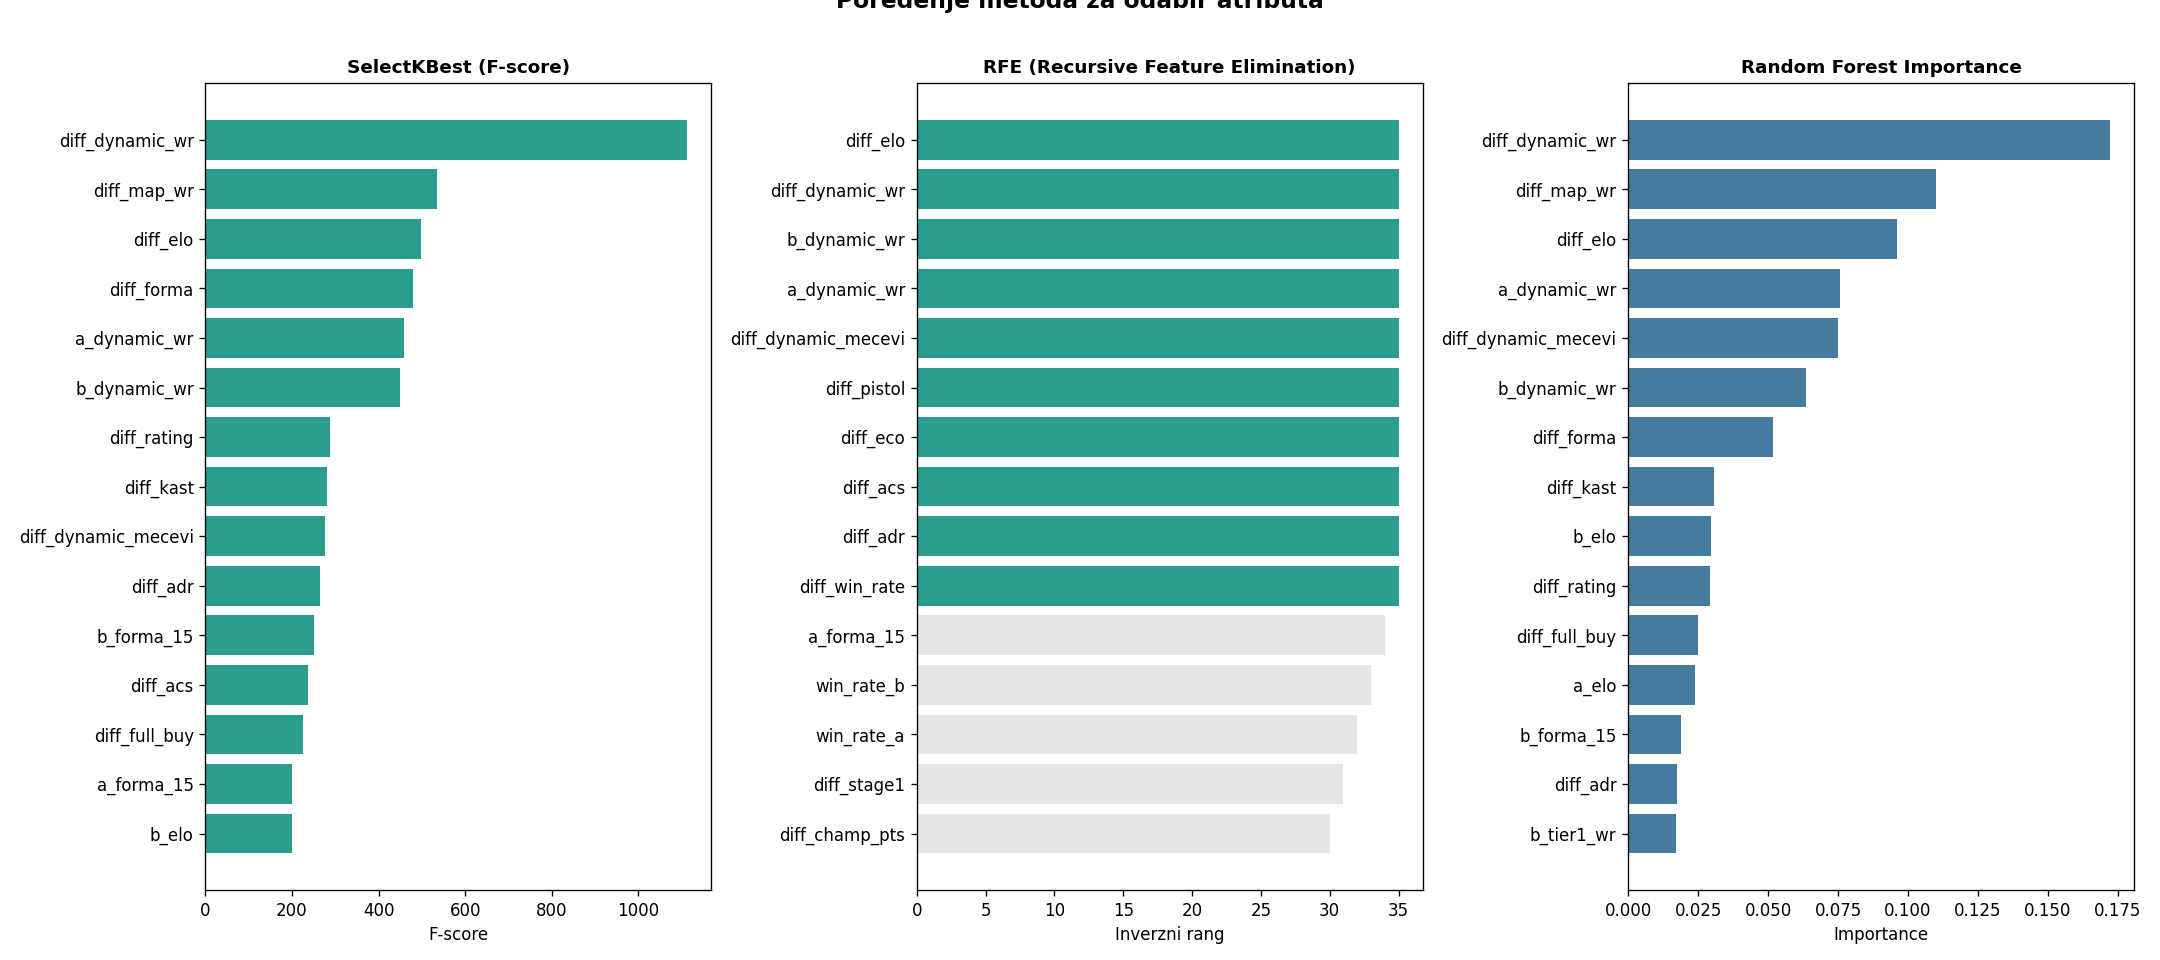
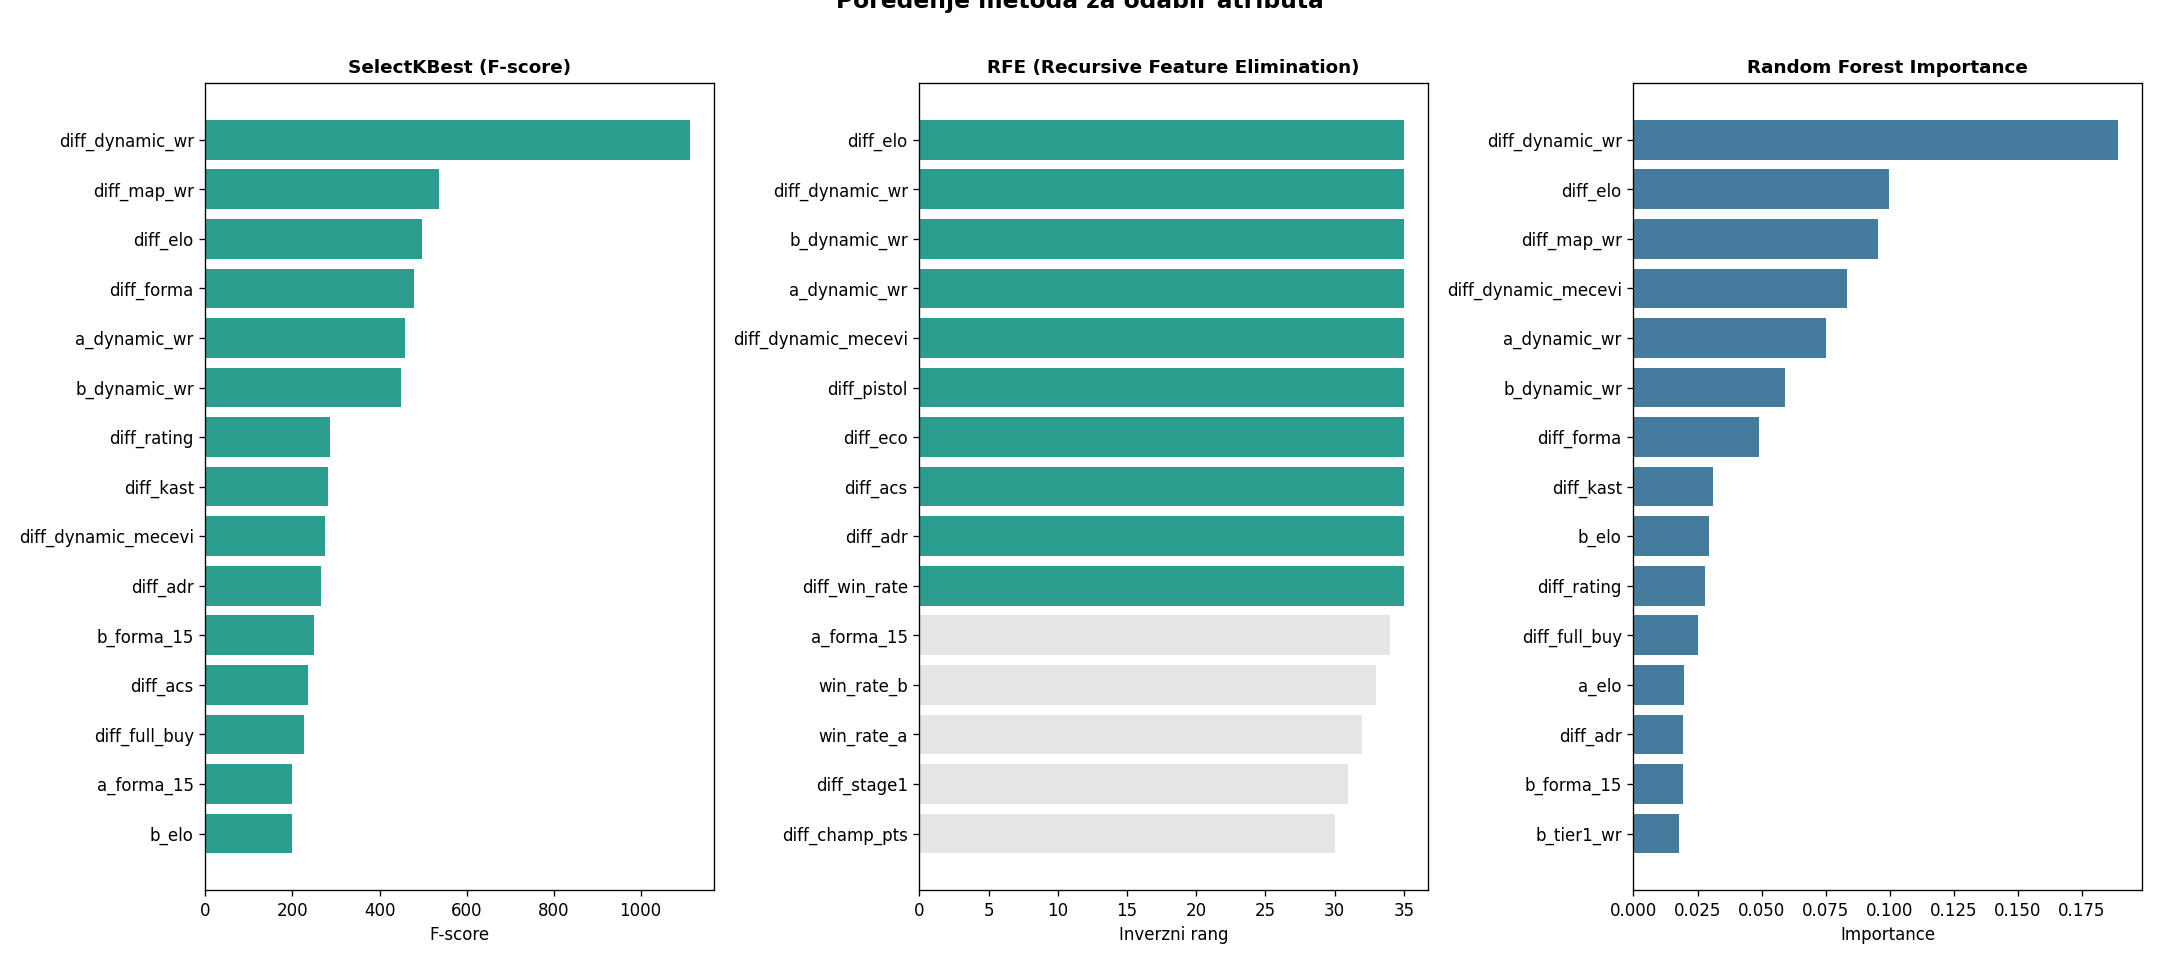
Poboljsaj validaciju i regularizaciju modela
- CV i GridSearchCV koriste TimeSeriesSplit (walk-forward) umjesto obicnog
  k-fold-a, jer su mecevi vremenski uredjeni - sprecava blago optimisticnu
  procjenu unutar trening perioda (2021-2024)
- GridSearchCV scoring promijenjen sa accuracy na neg_brier_score - bira
  hiperparametre po kalibraciji vjerovatnoca, relevantnije jer se
  predict_proba koristi direktno u Monte Carlo simulaciji
- Ispravljen bug: LR i SVM GridSearchCV nisu primali sample_weight (trebalo
  je clf__sample_weight za Pipeline), pa su tuned verzije ignorisale
  recency weighting iako ga je default verzija postovala
- RF grid prosiren sa min_samples_leaf; GB dobija rano zaustavljanje
  (n_iter_no_change) i siri n_estimators grid da nizak learning_rate
  ne bude vjestacki ogranicen
- Ispravljen prateci bug uveden gornjim izmjenama: GridSearchCV.score()
  koristi isti scoring kao u konstruktoru (sad neg_brier_score), ne
  accuracy automatski - dodata _test_accuracy() koja to racuna eksplicitno

diff --git a/kod/models.py b/kod/models.py
@@ -6,6 +6,17 @@ score - korisne dopunske metrike za binarnu klasifikaciju sa vjerovatnocama
 vjerovatnoca - bitno jer se predict_proba koristi za Monte Carlo simulaciju).
 Napomena: R^2 (koeficijent determinacije) je metrika za regresiju i ovdje se
 namjerno ne koristi - cilj ovog modela je klasifikacija (pobjednik meca).
+
+Validacija (CV i GridSearchCV) koristi TimeSeriesSplit umjesto obicnog
+k-fold-a: mecevi su vremenski uredjeni (trening je 2021-2024), pa obican
+k-fold moze trenirati na kasnijim a validirati na ranijim mecevima unutar tog
+perioda, sto je blago optimisticno u odnosu na stvarnu upotrebu (predikcija
+buducnosti iz proslosti). TimeSeriesSplit pravi "expanding window" foldove
+koji uvijek validiraju na mecevima posljije onih na kojima se trenira.
+
+GridSearchCV scoring je "neg_brier_score" (ne accuracy) - hiperparametri se
+biraju po kvalitetu KALIBRACIJE vjerovatnoca, ne po tacnosti klasifikacije,
+jer se predict_proba direktno koristi u Monte Carlo simulaciji (kod[7]).
 """
 
 import os
@@ -20,13 +31,25 @@ from sklearn.ensemble import RandomForestClassifier, GradientBoostingClassifier,
 from sklearn.svm import SVC
 from sklearn.preprocessing import StandardScaler
 from sklearn.pipeline import Pipeline
-from sklearn.model_selection import cross_val_score, GridSearchCV
+from sklearn.model_selection import cross_val_score, GridSearchCV, TimeSeriesSplit
 from sklearn.metrics import (
     accuracy_score, classification_report, confusion_matrix,
     roc_auc_score, brier_score_loss,
 )
 
 from config import PATH_REZULTATI, RANDOM_STATE
+
+CV_SPLITS = 5
+
+
+def _test_accuracy(grid, X_test, y_test):
+    """Accuracy nezavisna od GridSearchCV scoring-a.
+
+    GridSearchCV.score() koristi isti scorer koji je dat u konstruktoru
+    (kod nas "neg_brier_score") - NE accuracy automatski. Ova funkcija
+    racuna accuracy eksplicitno preko predict(), bez obzira na scoring.
+    """
+    return accuracy_score(y_test, grid.predict(X_test))
 
 
 def build_models():
@@ -119,20 +142,27 @@ def train_models(X_train, y_train, X_test, y_test, sample_weights):
 
 
 def cross_validate_models(modeli, X_train, y_train):
-    """K-fold CV (k=5) SAMO na trening setu - izbjegava data leakage iz test seta."""
+    """Vremenski svjesna CV (TimeSeriesSplit, 5 prozora) SAMO na trening setu.
+
+    Izbjegava i data leakage iz test seta (CV nikad ne vidi 2025/2026) i
+    leakage UNUTAR CV-a (svaki fold validira na mecevima poslije onih na
+    kojima se trenira, umjesto da obican k-fold nasumicno/redoslijedno
+    miksa periode unutar 2021-2024).
+    """
     print("\n" + "=" * 60)
-    print("  K-FOLD CROSS VALIDACIJA (k=5, samo TRAIN)")
+    print("  CROSS VALIDACIJA (TimeSeriesSplit, 5 prozora, samo TRAIN)")
     print("=" * 60)
 
+    tscv = TimeSeriesSplit(n_splits=CV_SPLITS)
     cv_rezultati = {}
     for naziv, model in modeli.items():
-        scores = cross_val_score(model, X_train, y_train, cv=5, scoring="accuracy")
+        scores = cross_val_score(model, X_train, y_train, cv=tscv, scoring="accuracy")
         cv_rezultati[naziv] = scores
         print(f"  {naziv:25s}: {scores.mean():.3f} (+/- {scores.std():.3f})")
 
     plt.figure(figsize=(10, 5))
     plt.boxplot(cv_rezultati.values(), labels=cv_rezultati.keys())
-    plt.title("K-Fold CV (5-fold) na trening setu")
+    plt.title("TimeSeriesSplit CV (5 prozora) na trening setu")
     plt.ylabel("Accuracy")
     plt.xticks(rotation=20)
     plt.tight_layout()
@@ -180,65 +210,78 @@ def plot_feature_importance(najbolji_model, najbolji_naziv, features):
 
 def tune_hyperparameters(X_train, y_train, X_test, y_test, sample_weights, rezultati_test,
                           najbolji_model, najbolji_naziv):
-    """GridSearchCV za svaki algoritam; vraca (eventualno azuriran) najbolji model."""
+    """GridSearchCV za svaki algoritam; vraca (eventualno azuriran) najbolji model.
+
+    cv=TimeSeriesSplit (walk-forward, ne obican k-fold) i scoring="neg_brier_score"
+    (biramo hiperparametre po kalibraciji vjerovatnoca, ne po accuracy-ju - vidi
+    docstring modula). Tezine recencije (sample_weights) se prosljedjuju u fit()
+    za sve modele koji ih podrzavaju, ukljucujuci LR i SVM (Pipeline -> potreban
+    je "clf__" prefiks; ranije je ovo bilo izostavljeno za ta dva modela, pa su
+    tuned LR/SVM ignorisali recency weighting iako ga je default verzija postovala).
+    """
     print("\n" + "=" * 60)
-    print("  PODESAVANJE HIPERPARAMETARA (GridSearchCV)")
+    print("  PODESAVANJE HIPERPARAMETARA (GridSearchCV, walk-forward, scoring=neg_brier_score)")
     print("=" * 60)
+
+    tscv = TimeSeriesSplit(n_splits=CV_SPLITS)
 
     print("\n  Logisticka regresija...")
     lr_pipe = Pipeline([("scaler", StandardScaler()), ("clf", LogisticRegression(max_iter=2000))])
     lr_params = {"clf__C": [0.01, 0.1, 1, 10, 100], "clf__penalty": ["l1", "l2"],
                  "clf__solver": ["liblinear"]}
-    lr_grid = GridSearchCV(lr_pipe, lr_params, cv=5, scoring="accuracy", n_jobs=-1)
-    lr_grid.fit(X_train, y_train)
+    lr_grid = GridSearchCV(lr_pipe, lr_params, cv=tscv, scoring="neg_brier_score", n_jobs=-1)
+    lr_grid.fit(X_train, y_train, clf__sample_weight=sample_weights)
     print(f"    Najbolji parametri: {lr_grid.best_params_}")
-    print(f"    CV accuracy:  {lr_grid.best_score_:.3f}")
-    print(f"    Test accuracy: {lr_grid.score(X_test, y_test):.3f}")
+    print(f"    CV score (neg Brier): {lr_grid.best_score_:.4f}")
+    print(f"    Test accuracy: {_test_accuracy(lr_grid, X_test, y_test):.3f}")
 
     print("\n  Random Forest...")
     rf_params = {"n_estimators": [100, 200, 300], "max_depth": [5, 8, 10, 15, None],
-                 "min_samples_split": [2, 5, 10]}
+                 "min_samples_split": [2, 5, 10], "min_samples_leaf": [1, 2, 4]}
     rf_grid = GridSearchCV(
         RandomForestClassifier(random_state=RANDOM_STATE),
-        rf_params, cv=5, scoring="accuracy", n_jobs=-1)
+        rf_params, cv=tscv, scoring="neg_brier_score", n_jobs=-1)
     rf_grid.fit(X_train, y_train, sample_weight=sample_weights)
     print(f"    Najbolji parametri: {rf_grid.best_params_}")
-    print(f"    CV accuracy:  {rf_grid.best_score_:.3f}")
-    print(f"    Test accuracy: {rf_grid.score(X_test, y_test):.3f}")
+    print(f"    CV score (neg Brier): {rf_grid.best_score_:.4f}")
+    print(f"    Test accuracy: {_test_accuracy(rf_grid, X_test, y_test):.3f}")
 
     print("\n  Gradient Boosting...")
-    gb_params = {"n_estimators": [100, 200, 300], "max_depth": [3, 4, 5, 6],
+    # n_iter_no_change/validation_fraction = rano zaustavljanje: omogucava da
+    # nizak learning_rate (treba mu vise stabala) ne bude vjestacki ogranicen
+    # niskim n_estimators grid-om, bez potrebe za rucnim sirenjem grid-a unedogled.
+    gb_params = {"n_estimators": [100, 200, 300, 500], "max_depth": [3, 4, 5, 6],
                  "learning_rate": [0.01, 0.05, 0.1]}
-    gb_grid = GridSearchCV(
-        GradientBoostingClassifier(random_state=RANDOM_STATE),
-        gb_params, cv=5, scoring="accuracy", n_jobs=-1)
+    gb_base = GradientBoostingClassifier(
+        random_state=RANDOM_STATE, n_iter_no_change=10, validation_fraction=0.1, tol=1e-4)
+    gb_grid = GridSearchCV(gb_base, gb_params, cv=tscv, scoring="neg_brier_score", n_jobs=-1)
     gb_grid.fit(X_train, y_train, sample_weight=sample_weights)
     print(f"    Najbolji parametri: {gb_grid.best_params_}")
-    print(f"    CV accuracy:  {gb_grid.best_score_:.3f}")
-    print(f"    Test accuracy: {gb_grid.score(X_test, y_test):.3f}")
+    print(f"    CV score (neg Brier): {gb_grid.best_score_:.4f}")
+    print(f"    Test accuracy: {_test_accuracy(gb_grid, X_test, y_test):.3f}")
 
     print("\n  SVM (RBF)...")
     svm_pipe = Pipeline([("scaler", StandardScaler()),
                           ("clf", SVC(kernel="rbf", probability=True, random_state=RANDOM_STATE))])
     svm_params = {"clf__C": [0.1, 1, 10, 100], "clf__gamma": ["scale", "auto", 0.01, 0.1]}
-    svm_grid = GridSearchCV(svm_pipe, svm_params, cv=5, scoring="accuracy", n_jobs=-1)
-    svm_grid.fit(X_train, y_train)
+    svm_grid = GridSearchCV(svm_pipe, svm_params, cv=tscv, scoring="neg_brier_score", n_jobs=-1)
+    svm_grid.fit(X_train, y_train, clf__sample_weight=sample_weights)
     print(f"    Najbolji parametri: {svm_grid.best_params_}")
-    print(f"    CV accuracy:  {svm_grid.best_score_:.3f}")
-    print(f"    Test accuracy: {svm_grid.score(X_test, y_test):.3f}")
+    print(f"    CV score (neg Brier): {svm_grid.best_score_:.4f}")
+    print(f"    Test accuracy: {_test_accuracy(svm_grid, X_test, y_test):.3f}")
 
     print("\n  KNN...")
     knn_pipe = Pipeline([("scaler", StandardScaler()), ("clf", KNeighborsClassifier())])
     knn_params = {"clf__n_neighbors": [3, 5, 7, 9, 11, 15],
                   "clf__weights": ["uniform", "distance"],
                   "clf__metric": ["euclidean", "manhattan"]}
-    knn_grid = GridSearchCV(knn_pipe, knn_params, cv=5, scoring="accuracy", n_jobs=-1)
+    knn_grid = GridSearchCV(knn_pipe, knn_params, cv=tscv, scoring="neg_brier_score", n_jobs=-1)
     knn_grid.fit(X_train, y_train)
     print(f"    Najbolji parametri: {knn_grid.best_params_}")
-    print(f"    CV accuracy:  {knn_grid.best_score_:.3f}")
-    print(f"    Test accuracy: {knn_grid.score(X_test, y_test):.3f}")
+    print(f"    CV score (neg Brier): {knn_grid.best_score_:.4f}")
+    print(f"    Test accuracy: {_test_accuracy(knn_grid, X_test, y_test):.3f}")
 
-    print("\n  === POREDENJE: DEFAULT vs TUNED ===")
+    print("\n  === POREDENJE: DEFAULT vs TUNED (accuracy) ===")
     tuned_modeli = {
         "Logisticka regresija": lr_grid,
         "Random Forest": rf_grid,
@@ -250,11 +293,20 @@ def tune_hyperparameters(X_train, y_train, X_test, y_test, sample_weights, rezul
     print(f"  {'-' * 55}")
     for naziv, grid in tuned_modeli.items():
         default_acc = rezultati_test.get(naziv, rezultati_test.get("KNN (k=7)", 0))
-        tuned_acc = grid.score(X_test, y_test)
+        tuned_acc = _test_accuracy(grid, X_test, y_test)
         diff = tuned_acc - default_acc
         print(f"  {naziv:25s} {default_acc:10.3f} {tuned_acc:10.3f} {diff:+10.3f}")
 
-    sve_tuned = {n: g.score(X_test, y_test) for n, g in tuned_modeli.items()}
+    print("\n  === KALIBRACIJA TUNED MODELA NA TEST SETU (ROC-AUC / Brier) ===")
+    print(f"  {'Algoritam':25s} {'ROC-AUC':>10s} {'Brier':>10s}")
+    print(f"  {'-' * 47}")
+    for naziv, grid in tuned_modeli.items():
+        proba = grid.predict_proba(X_test)[:, 1]
+        auc = roc_auc_score(y_test, proba)
+        brier = brier_score_loss(y_test, proba)
+        print(f"  {naziv:25s} {auc:10.3f} {brier:10.3f}")
+
+    sve_tuned = {n: _test_accuracy(g, X_test, y_test) for n, g in tuned_modeli.items()}
     best_tuned_naziv = max(sve_tuned, key=sve_tuned.get)
     best_tuned_acc = sve_tuned[best_tuned_naziv]
 